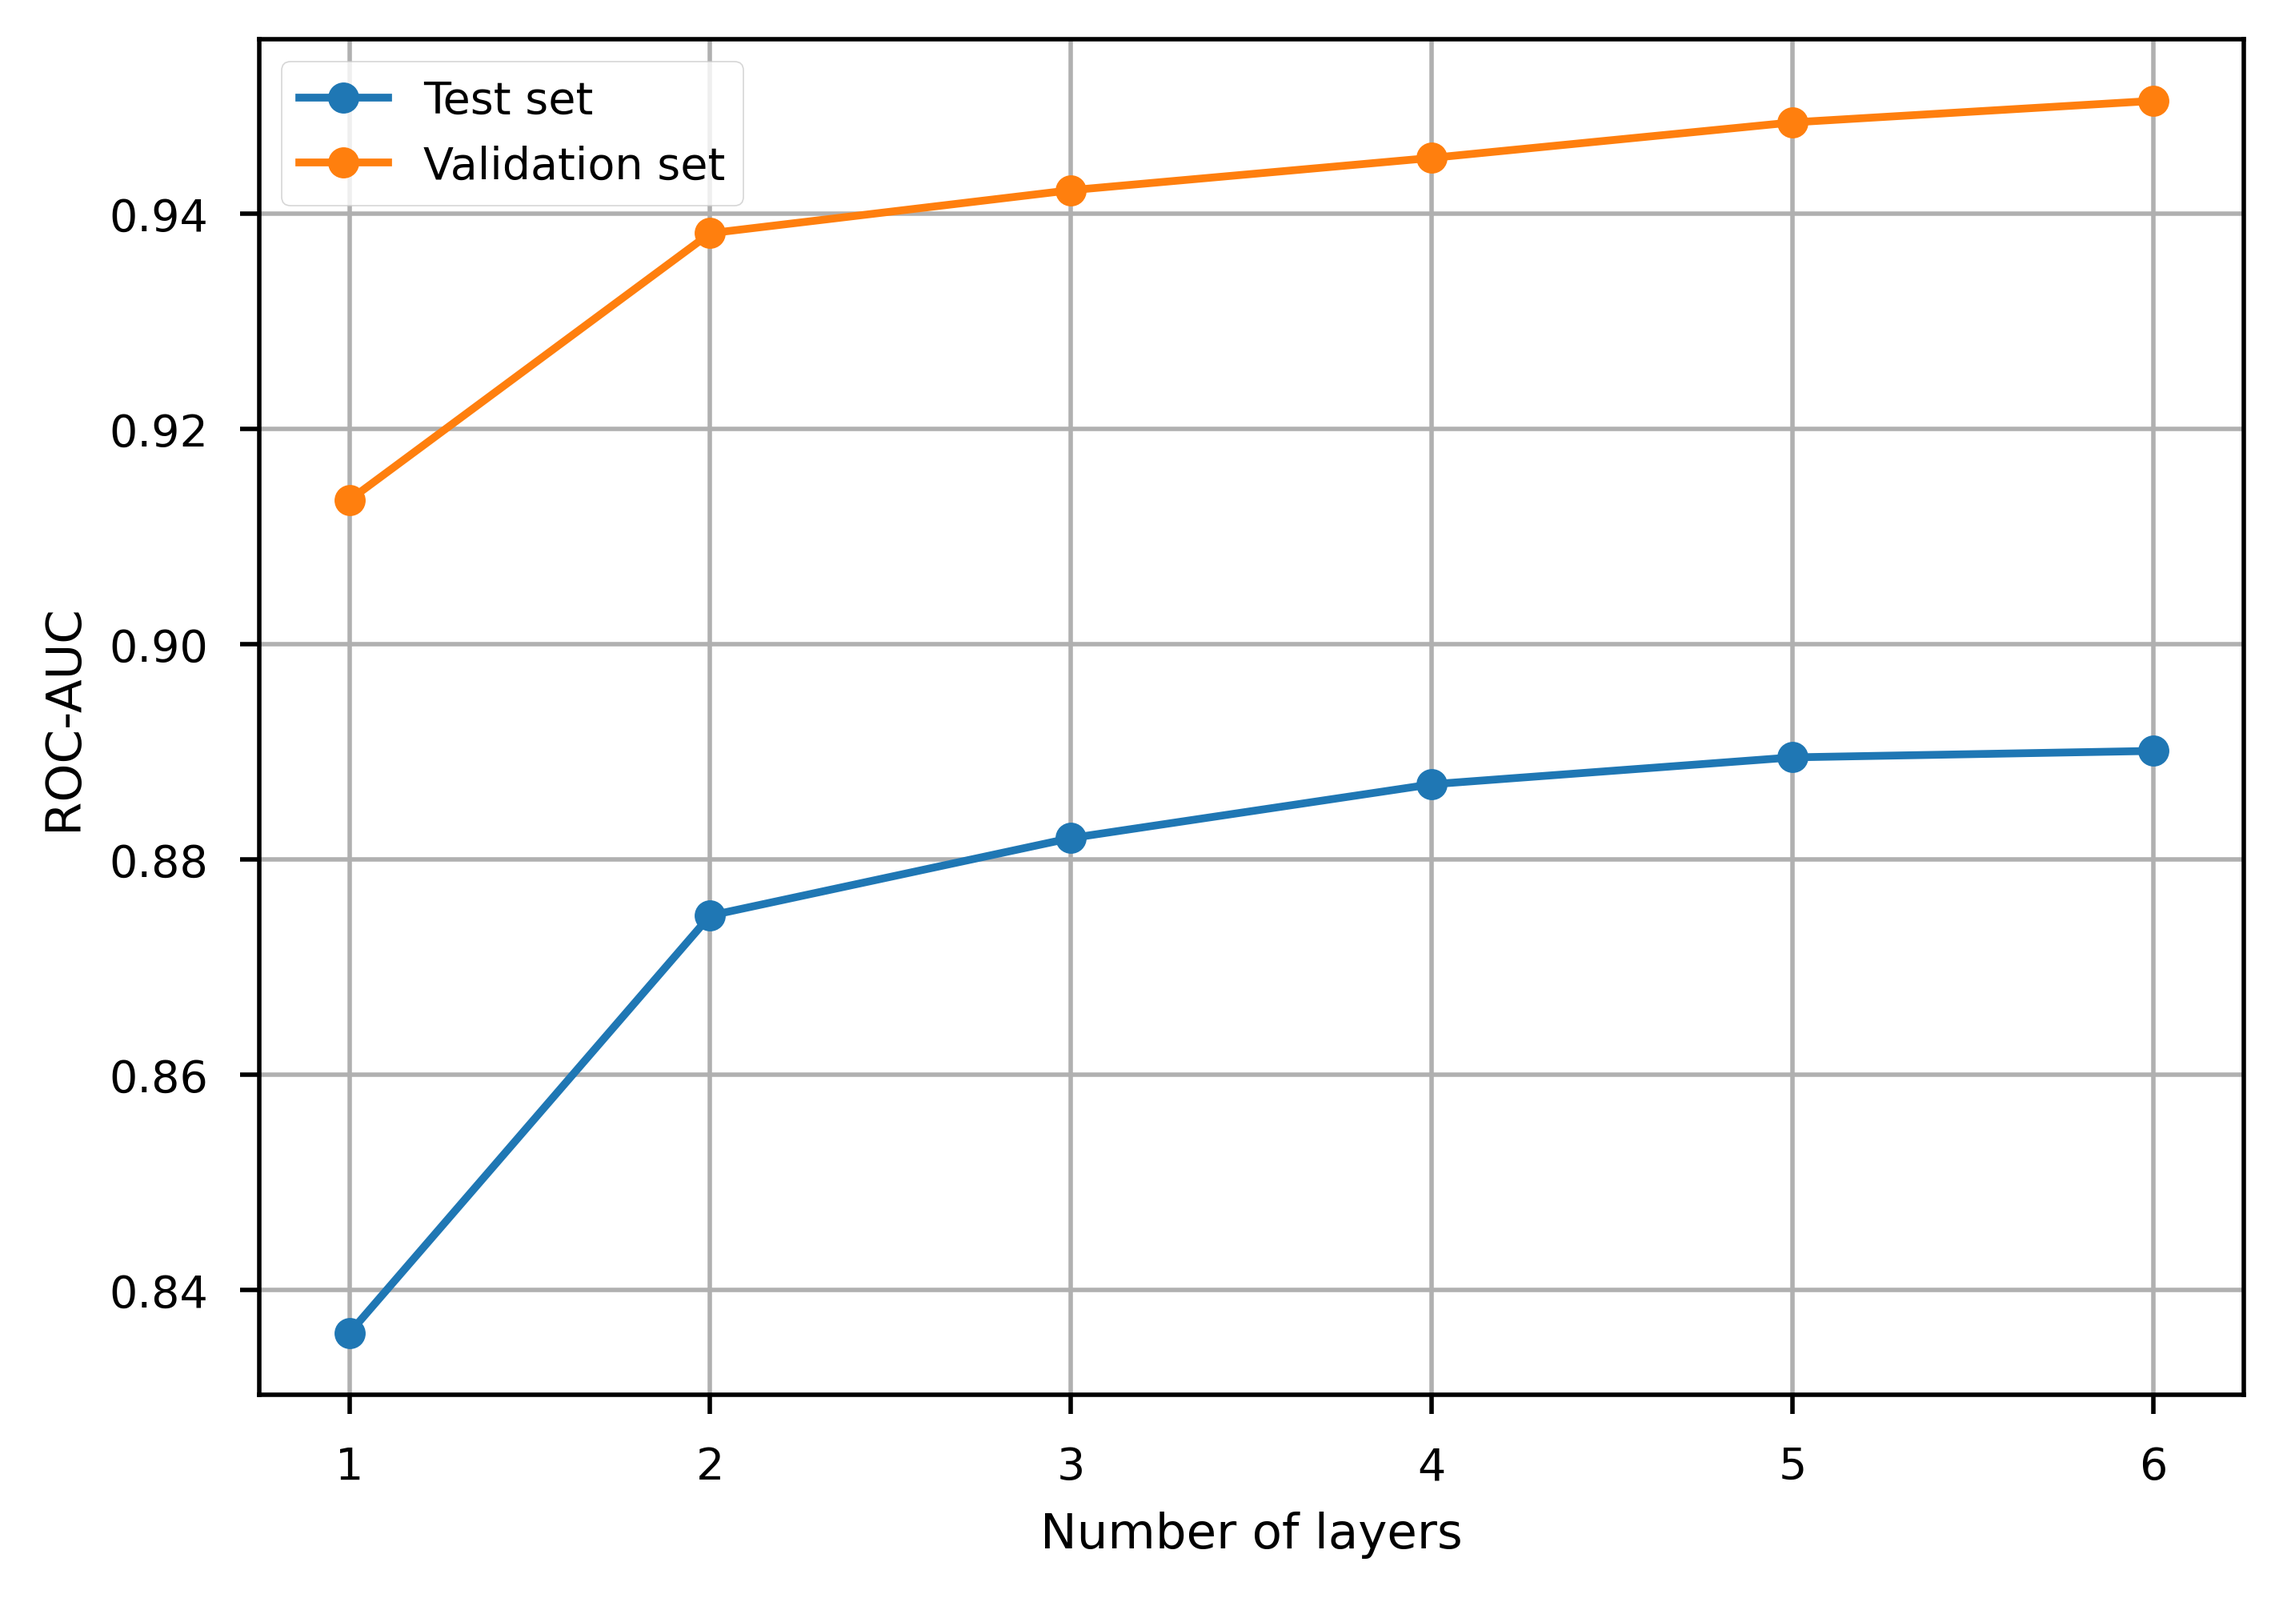
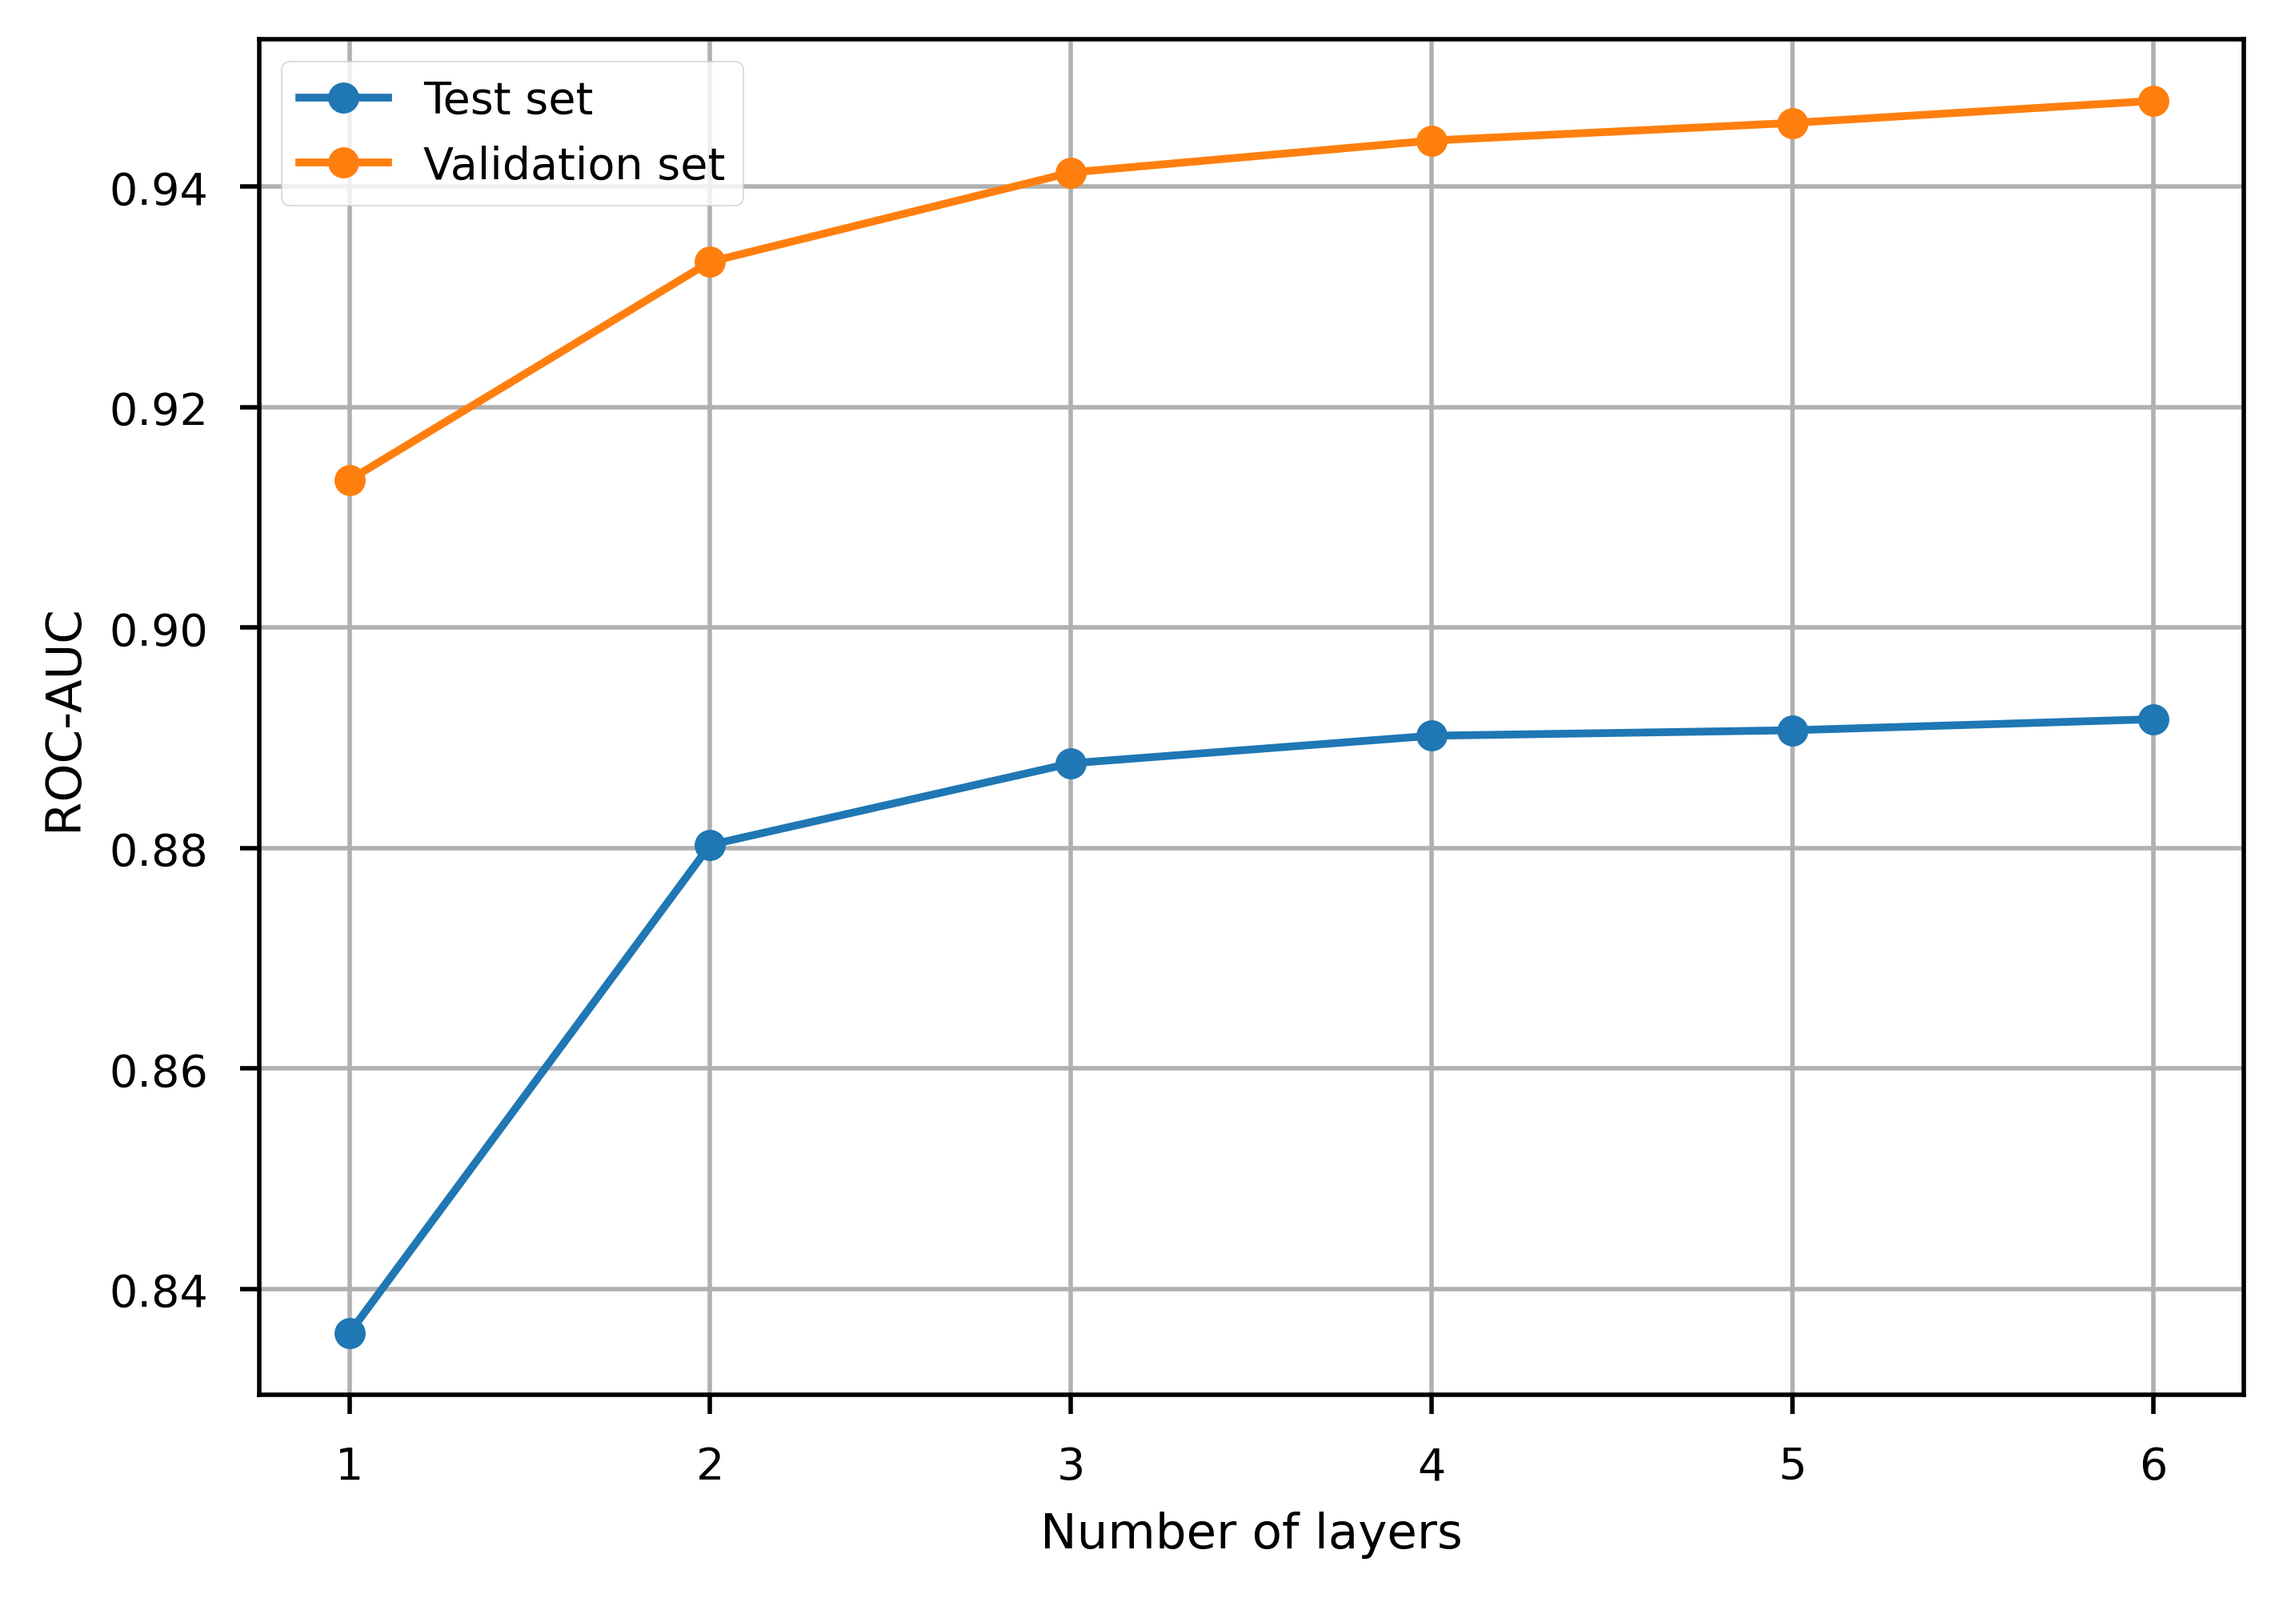
add new layer data

diff --git a/ogbn-proteins/src/plot/plot_gipa_layer.py b/ogbn-proteins/src/plot/plot_gipa_layer.py
@@ -8,9 +8,11 @@ plt.cla()
 
 x = np.arange(0, 6)
 
+y2 = [i/100 for i in [83.60, 88.03, 88.77, 89.02, 89.07, 89.17]]
+y3 = [i/100 for i in [91.34, 93.32, 94.13, 94.42, 94.58, 94.78]]
 
-y2 = [0.8360, 0.8748, 0.8820, 0.8870, 0.8895, 0.8901]
-y3 = [0.9134, 0.9382, 0.9422, 0.9452, 0.9485, 0.9505]
+# y2 = [0.8360, 0.8748, 0.8820, 0.8870, 0.8895, 0.8901]
+# y3 = [0.9134, 0.9382, 0.9422, 0.9452, 0.9485, 0.9505]
 # y3 = [0.281183973
 # ,0.281797251
 # ,0.282384611
